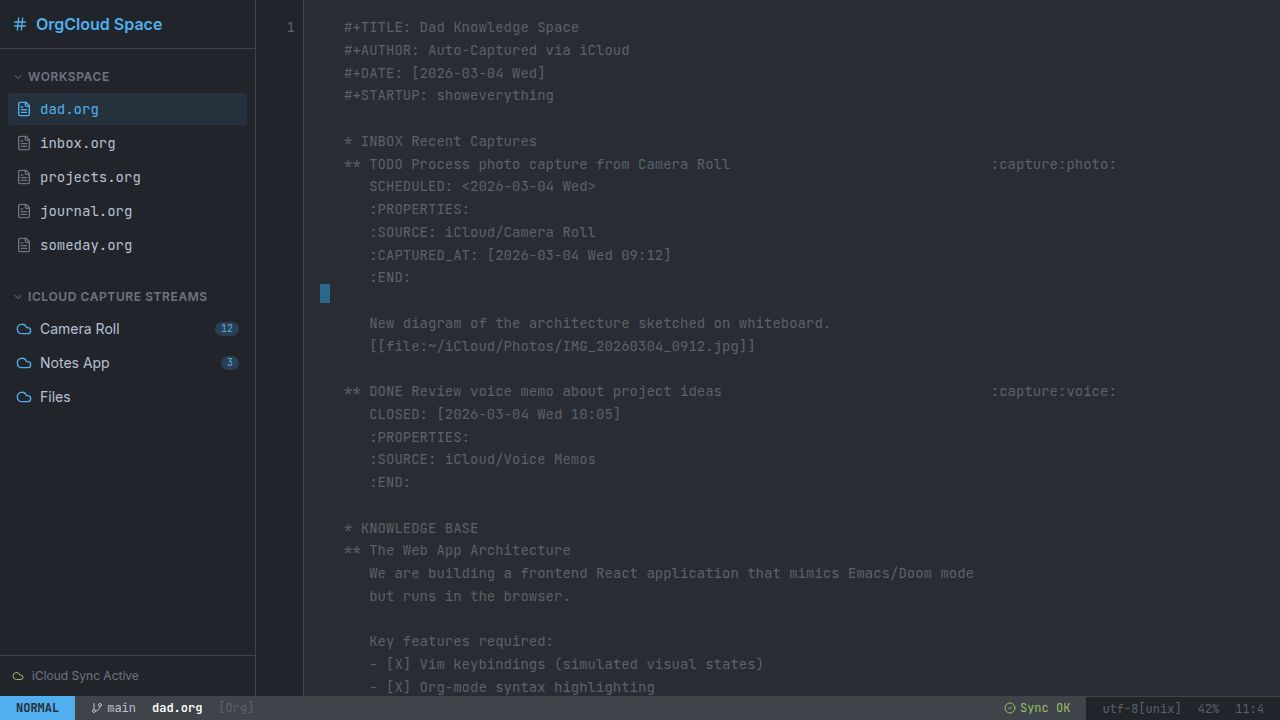
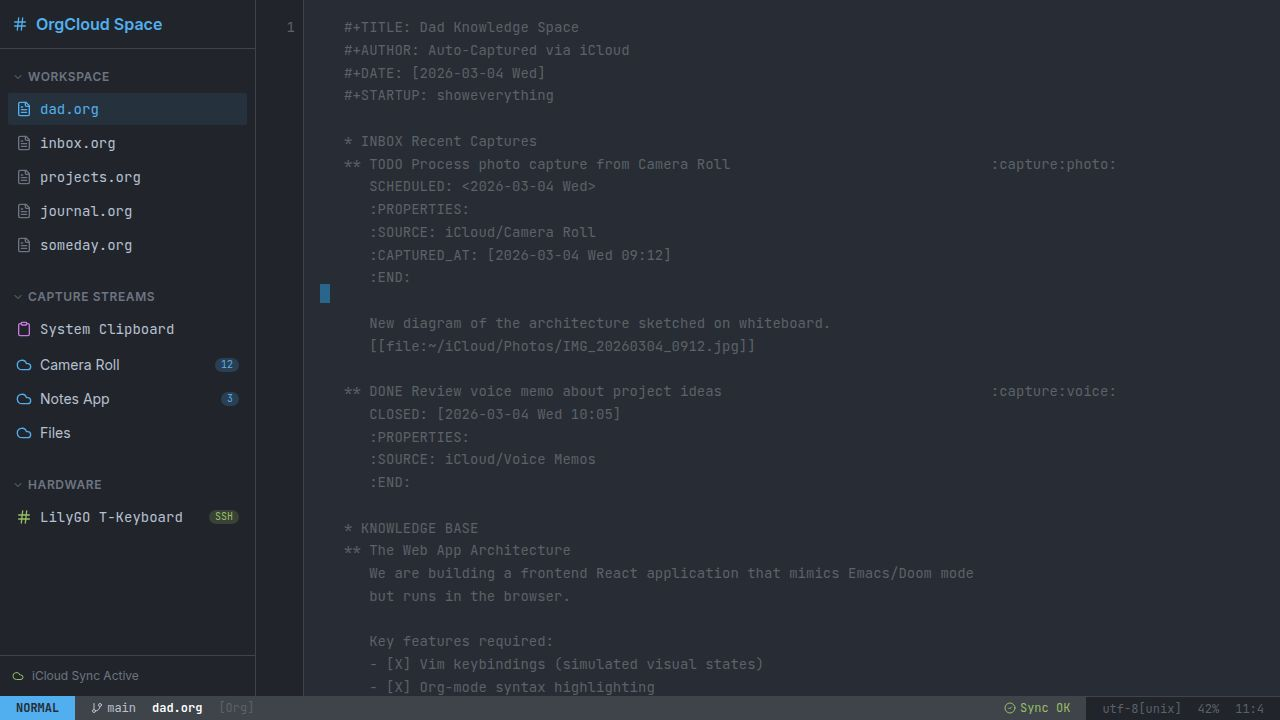
Add a simulated terminal interface for a keyboard device
Create a new TUI page simulating an SSH terminal for the LilyGO T-Keyboard, enabling navigation of Org-mode data with keyboard controls.

Replit-Commit-Author: Agent
Replit-Commit-Session-Id: dab55317-dbd5-4fa0-af83-9bc3eae3199b
Replit-Commit-Checkpoint-Type: full_checkpoint
Replit-Commit-Event-Id: cac34ee3-f5a4-4775-95c0-a21e1d774082
Replit-Commit-Screenshot-Url: https://storage.googleapis.com/screenshot-production-us-central1/5d0b2f30-a35a-452f-b984-250b77fea052/dab55317-dbd5-4fa0-af83-9bc3eae3199b/9vLA9CY
Replit-Helium-Checkpoint-Created: true

diff --git a/client/src/pages/TUI.tsx b/client/src/pages/TUI.tsx
@@ -1,0 +1,125 @@
+import React, { useState, useEffect } from "react";
+import { Link } from "wouter";
+import { ArrowLeft, Smartphone } from "lucide-react";
+
+// Mock data representing the Agenda / Bullet Journal
+const agendaData = [
+  { id: 1, type: "header", text: "2026-03-04 Today" },
+  { id: 2, type: "task", status: "TODO", text: "[Carried] Fix CSS" },
+  { id: 3, type: "task", status: "TODO", text: "Process photos" },
+  { id: 4, type: "task", status: "DONE", text: "Review memo" },
+  { id: 5, type: "header", text: "2026-03-05 Tomorrow" },
+  { id: 6, type: "task", status: "TODO", text: "Build TUI" },
+];
+
+export default function TUI() {
+  const [selectedIndex, setSelectedIndex] = useState(1); // Start on first task
+  const [isTyping, setIsTyping] = useState(false);
+
+  useEffect(() => {
+    const handleKeyDown = (e: KeyboardEvent) => {
+      if (isTyping) return;
+      
+      const key = e.key.toLowerCase();
+      
+      if (key === 's') { // Down
+        setSelectedIndex((prev) => Math.min(prev + 1, agendaData.length - 1));
+      } else if (key === 'w') { // Up
+        setSelectedIndex((prev) => Math.max(prev - 1, 0));
+      } else if (key === 'd') { // Right / Enter
+        // Toggle task or expand
+        console.log("Interact with", agendaData[selectedIndex]);
+      } else if (key === 'a') { // Left / Back
+        // Go back up the tree
+        console.log("Go back");
+      }
+    };
+
+    window.addEventListener("keydown", handleKeyDown);
+    return () => window.removeEventListener("keydown", handleKeyDown);
+  }, [selectedIndex, isTyping]);
+
+  // Determine what two lines to show
+  // We want to show the selected item. If it's a task, maybe show its parent header on line 1, and the task on line 2.
+  // Or just show selectedItem on line 1, and next item on line 2.
+  // The user says: "40 x 160 with a 16 pixel font size so that means two lines"
+  
+  const currentItem = agendaData[selectedIndex];
+  const nextItem = agendaData[selectedIndex + 1];
+
+  const renderLine = (item: typeof agendaData[0] | undefined, isSelected: boolean) => {
+    if (!item) return "";
+    let prefix = "";
+    if (item.type === "header") prefix = "▼ ";
+    if (item.type === "task") prefix = item.status === "DONE" ? "[x] " : "[ ] ";
+    
+    const text = prefix + item.text;
+    return isSelected ? `> ${text}` : `  ${text}`;
+  };
+
+  return (
+    <div className="flex flex-col h-screen w-screen bg-[#1e1e1e] items-center justify-center font-sans relative">
+      <Link href="/" className="absolute top-6 left-6 flex items-center gap-2 text-muted-foreground hover:text-primary transition-colors">
+        <ArrowLeft className="w-4 h-4" />
+        Back to Workspace
+      </Link>
+
+      <div className="text-center mb-8">
+        <h1 className="text-2xl font-bold text-white flex items-center justify-center gap-2 mb-2">
+          <Smartphone className="w-6 h-6" />
+          LilyGO T-Keyboard SSH Sim
+        </h1>
+        <p className="text-muted-foreground text-sm">
+          Use <kbd className="bg-muted px-1 py-0.5 rounded text-xs mx-1">W</kbd> 
+          <kbd className="bg-muted px-1 py-0.5 rounded text-xs mx-1">A</kbd> 
+          <kbd className="bg-muted px-1 py-0.5 rounded text-xs mx-1">S</kbd> 
+          <kbd className="bg-muted px-1 py-0.5 rounded text-xs mx-1">D</kbd> to navigate
+        </p>
+      </div>
+
+      {/* Hardware Bezel Mockup */}
+      <div className="bg-[#2a2a2a] p-8 rounded-xl shadow-2xl border border-[#333] flex flex-col items-center">
+        {/* The Screen (160x40 logical pixels) */}
+        <div 
+          className="bg-black border-2 border-[#111] overflow-hidden flex flex-col"
+          style={{ 
+            width: "160px", 
+            height: "40px", 
+            // We scale it up with transform so it's easier to see on desktop, 
+            // but the aspect ratio and constraint remains exactly 160x40 logical.
+            transform: "scale(2)",
+            transformOrigin: "center top",
+            marginBottom: "40px" // compensate for scale
+          }}
+        >
+          <div 
+            className="text-white whitespace-nowrap overflow-hidden font-mono leading-none tracking-tight"
+            style={{ 
+              fontSize: "16px",
+              lineHeight: "20px",
+              width: "160px"
+            }}
+          >
+            <div className="truncate w-full bg-black text-[#51afef]">
+              {renderLine(currentItem, true)}
+            </div>
+            <div className="truncate w-full bg-black text-[#bbc2cf]">
+              {renderLine(nextItem, false)}
+            </div>
+          </div>
+        </div>
+        
+        {/* Mock Keyboard area */}
+        <div className="mt-8 opacity-50 flex flex-col items-center gap-2 w-full max-w-[200px]">
+          <div className="w-full h-px bg-gradient-to-r from-transparent via-[#444] to-transparent mb-2" />
+          <div className="text-[10px] text-muted-foreground uppercase tracking-widest">Blackberry Keyboard</div>
+          <div className="grid grid-cols-4 gap-1 w-full">
+             {Array.from({length: 12}).map((_, i) => (
+                <div key={i} className="h-4 bg-[#333] rounded-[2px]" />
+             ))}
+          </div>
+        </div>
+      </div>
+    </div>
+  );
+}

diff --git a/client/src/components/layout/Sidebar.tsx b/client/src/components/layout/Sidebar.tsx
@@ -99,6 +99,25 @@ export default function Sidebar({ activeFile, onSelectFile, toggleClipboard, isC
             </button>
           ))}
         </div>
+
+        <div className="px-3 py-1 mt-6 mb-1 text-xs font-semibold text-muted-foreground uppercase tracking-wider flex items-center gap-1">
+          <ChevronDown className="w-3 h-3" />
+          <span>Hardware</span>
+        </div>
+        <div className="space-y-[2px] px-2 pb-4">
+          <a
+            href="/tui"
+            className="w-full flex items-center justify-between px-2 py-1.5 rounded-sm text-sm text-left transition-colors font-mono text-foreground hover:bg-muted/50"
+          >
+            <div className="flex items-center gap-2">
+              <Hash className="w-4 h-4 text-[#98be65]" />
+              <span>LilyGO T-Keyboard</span>
+            </div>
+            <span className="text-[10px] bg-[#98be65]/20 text-[#98be65] px-1.5 rounded-full">
+              SSH
+            </span>
+          </a>
+        </div>
       </ScrollArea>
       
       <div className="p-3 border-t border-border flex items-center gap-2 text-xs text-muted-foreground">

diff --git a/client/src/App.tsx b/client/src/App.tsx
@@ -5,11 +5,13 @@ import { Toaster } from "@/components/ui/toaster";
 import { TooltipProvider } from "@/components/ui/tooltip";
 import NotFound from "@/pages/not-found";
 import Workspace from "@/pages/Workspace";
+import TUI from "@/pages/TUI";
 
 function Router() {
   return (
     <Switch>
       <Route path="/" component={Workspace} />
+      <Route path="/tui" component={TUI} />
       <Route component={NotFound} />
     </Switch>
   );
